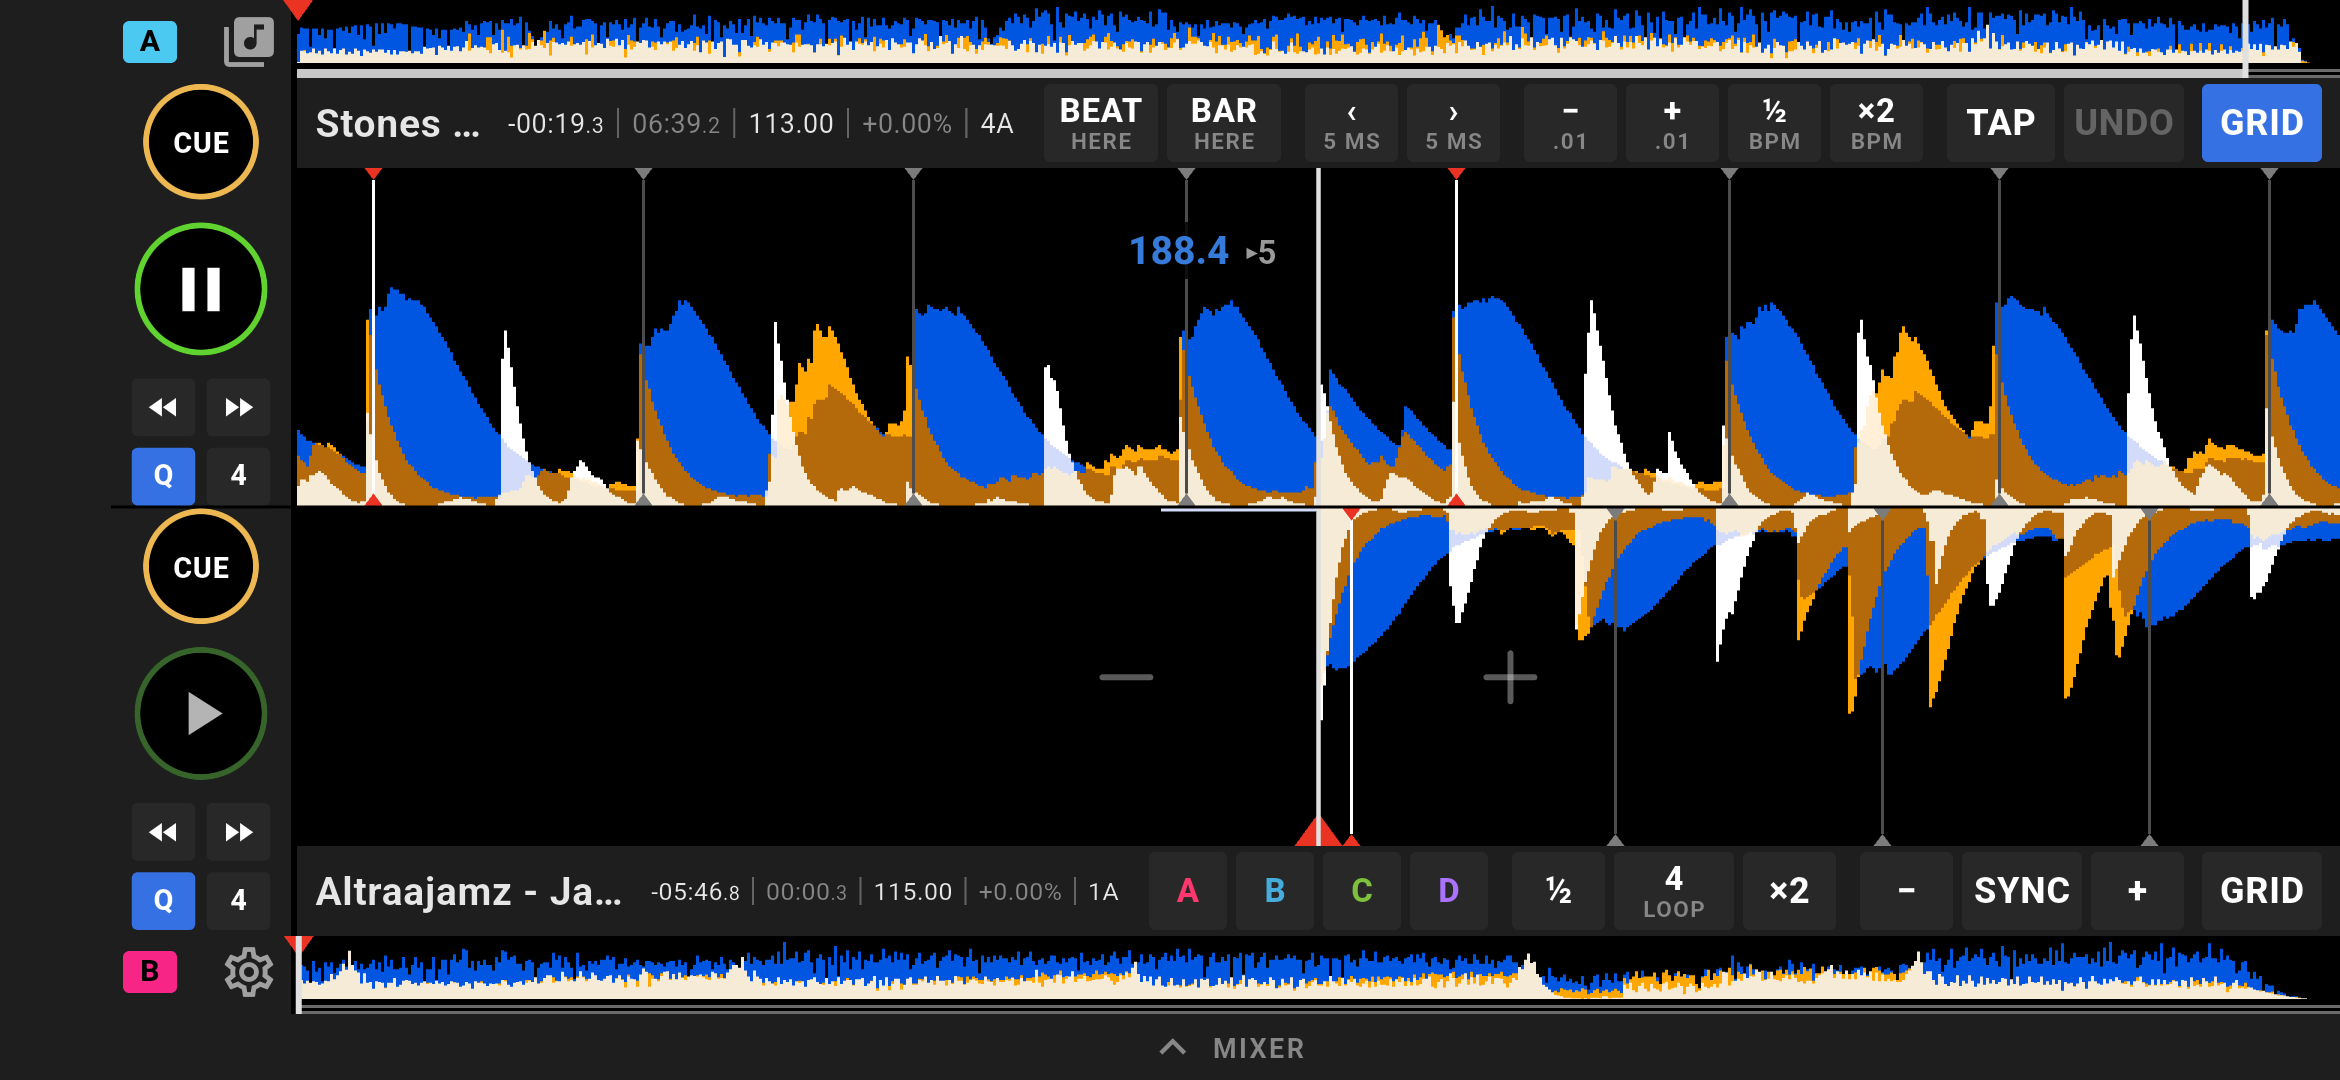
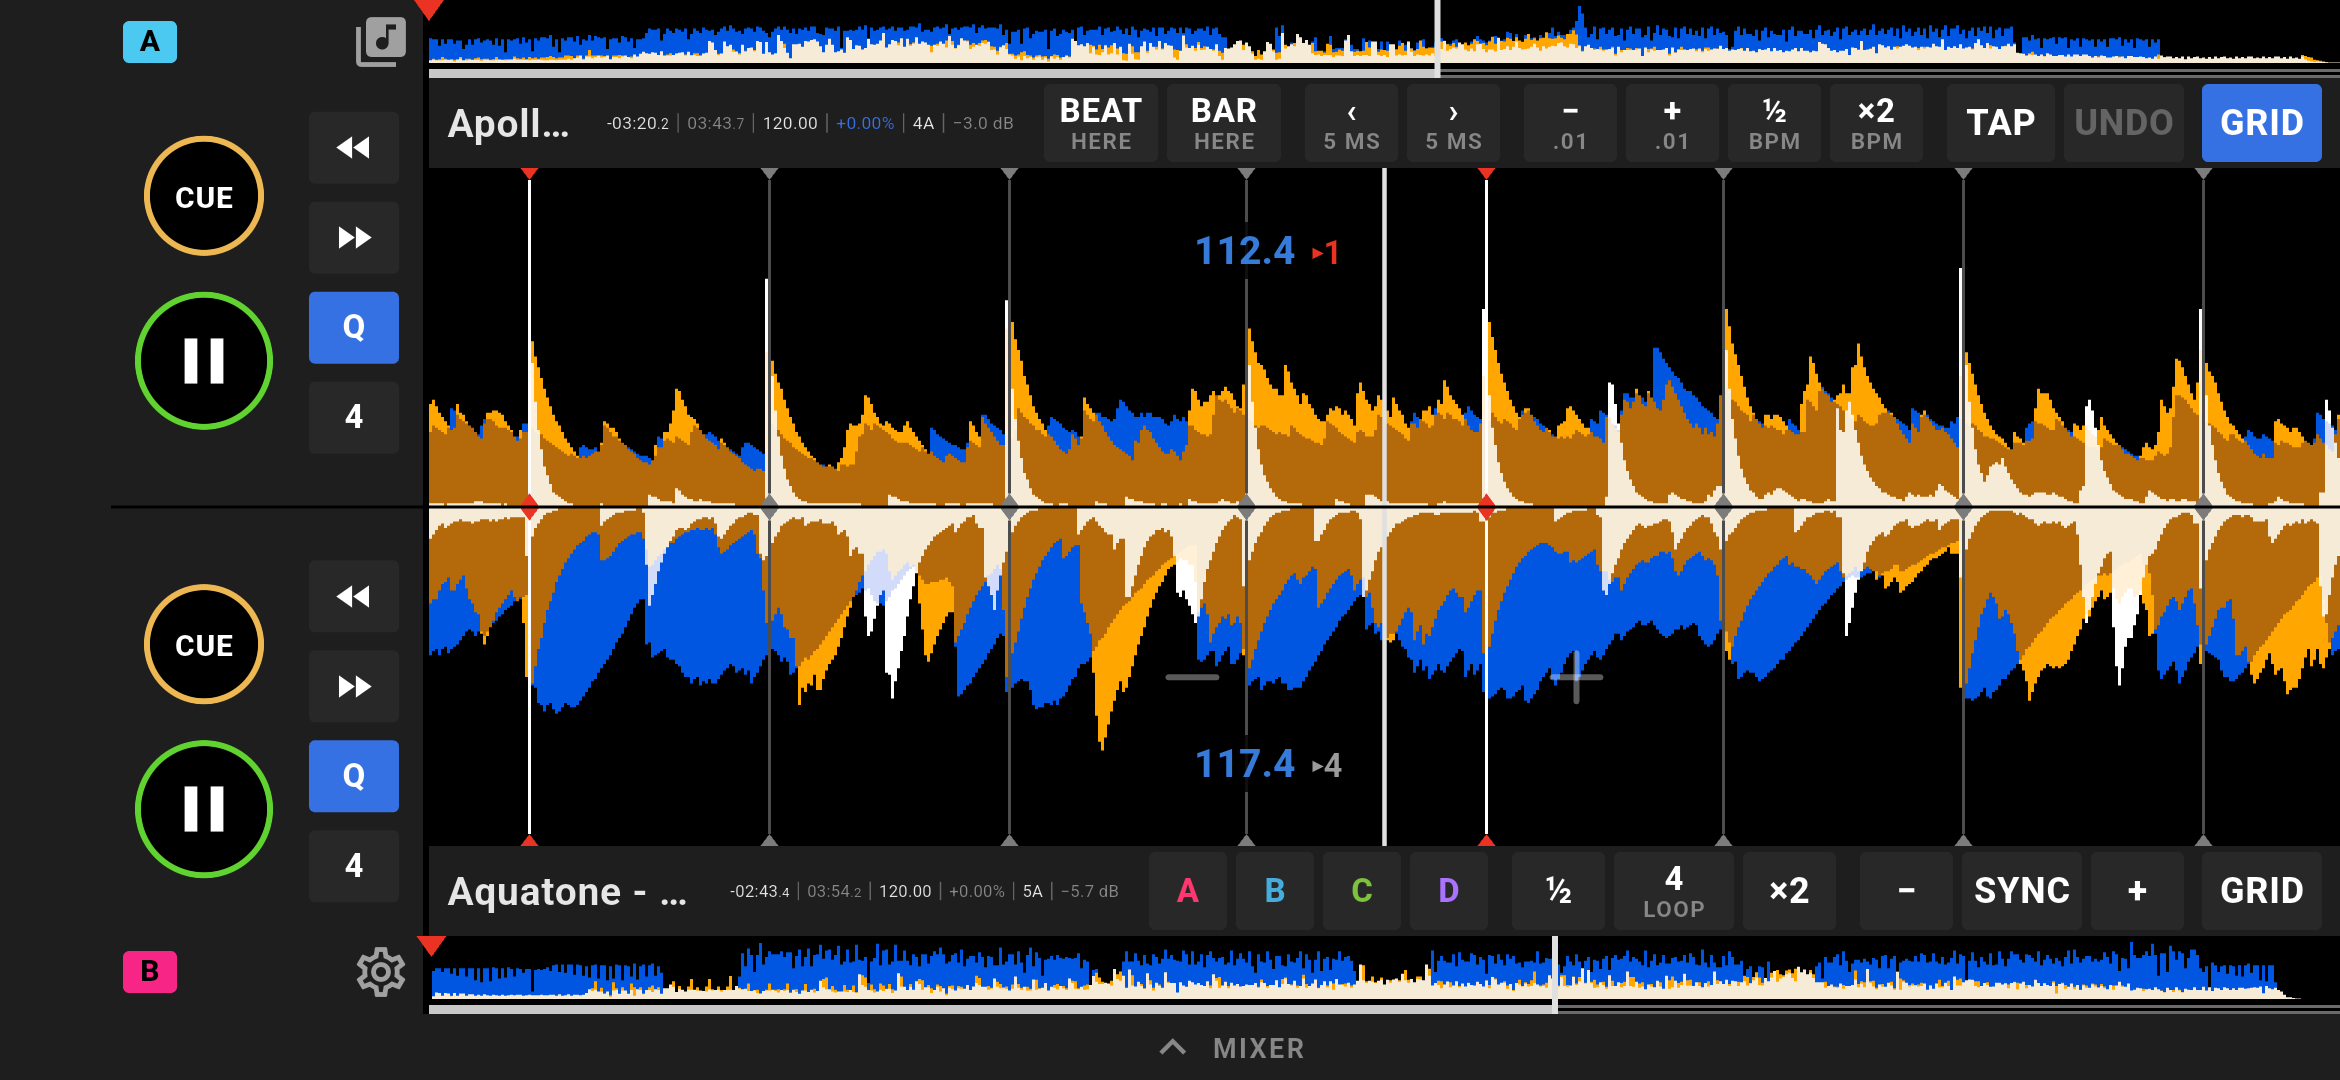
README: auto gain, track details, optional filter, new rail; screenshots
New decks, mixer and GRID screenshots show the two-column rail and the
filter-less mixer; details.png shows the track details dialog.

diff --git a/README.md b/README.md
@@ -29,11 +29,13 @@ USB out to an external mixer such as the Teenage Engineering EP-136 K.O. Sidekic
 > changes listed under [What this fork adds](#what-this-fork-adds). Build from
 > this branch to get them.
 
-![Two synced decks on an external mixer: 3-band waveforms meeting at the centre line, bar / phrase counters, transport rails with CUE, PLAY, beat jump and quantize](screenshots/decks.png)
+![Two synced decks with the internal mixer hidden: 3-band waveforms meeting at the centre line, bar / phrase counters, auto gain beside the key, and two-column transport rails (CUE over PLAY; beat jump, Q and jump size)](screenshots/decks.png)
 
-![The restyled internal mixer](screenshots/mixer.png)
+![The restyled internal mixer: EQ faders and crossfader (the filter fader is optional)](screenshots/mixer.png)
 
 ![GRID mode on deck A (beat here, bar here, 5 ms, BPM, tap, undo) with the internal mixer hidden](screenshots/grid.png)
+
+![Track details, opened by tapping a deck's title](screenshots/details.png)
 
 ![The library: Local, Remote and USB tabs, Camelot keys (compatible ones coloured), the "check grid" warning, and the filter box](screenshots/library.png)
 
@@ -45,9 +47,10 @@ USB out to an external mixer such as the Teenage Engineering EP-136 K.O. Sidekic
 |---|---|
 | External mixer | Fixed silent playback on Samsung/Qualcomm phones; decks take the full screen in external mode |
 | Waveforms | rbxport-style 3-band waveforms, mirrored at a shared centre line; pinch zoom; smooth motion |
-| Deck controls | New control row and transport rail, CUE, hot cues A–D, quantize, beat jump, on-wave nudge |
+| Deck controls | New control row and two-column transport rail, CUE, hot cues A–D, quantize, beat jump, on-wave nudge; tap the title for track details |
 | Navigation | Drag the waveform to scrub; bar / phrase counter |
-| Mixer | Restyled faders with a centre notch and blue offset fill; hide it to give the decks the screen |
+| Mixer | Restyled faders with a centre notch and blue offset fill; filter fader optional; hide it to give the decks the screen |
+| Auto gain | Every track levelled to the same loudness without clipping |
 | Sync | Beat sync: SYNC matches tempo *and* snaps into beat phase |
 | Cues | Cue and hot cues saved per track and restored on load |
 | Beat grid | Whole-track analysis, kick-attack grid fit, checked BPM rounding, drift correction, "check grid" warning, hand-fixed grids protected; grid fix tools (beat here, bar here, BPM edit, tap tempo, undo) |
@@ -94,8 +97,15 @@ Upstream: [issue #13](https://github.com/manueljpy/SideDeck/issues/13),
 - **Control row** between each overview and detail: title and artist, then
   `-MM:SS.t` remaining, `MM:SS.t` elapsed, BPM (0.01), tempo %, key; hot cue pads;
   `½ · LOOP · ×2`; `− · SYNC · +`; `GRID`. Flat rbxport-style buttons that light blue.
-- **Transport rail:** CUE, PLAY, beat-jump ◀◀ ▶▶, **Q** (quantize) and the jump
-  size; small A/B tags; library (deck A) and settings (deck B).
+- **Transport rail,** in two columns: CUE over PLAY, and beside them beat-jump
+  ◀◀ ▶▶, **Q** (quantize) and the jump size; small A/B tags; library (deck A)
+  and settings (deck B). A gap at the centre line keeps deck B's CUE clear of
+  deck A.
+- **Track details:** tap a deck's title for artist, album (rekordbox), length
+  and position, playing and original BPM, tempo and sync, key in musical /
+  Camelot / Open Key, the beat grid and its state, cue and hot cue times,
+  loudness and auto gain, format, size, source and file path. It updates live
+  and the text can be copied.
 - **On-wave nudge:** faint − / + either side of the playhead. Hold while playing
   to bend tempo ±8 %; tap or hold while paused to jog 40 ms.
 - **Bar / phrase counter** beside the playhead, e.g. `33.2 ▸3`: bar 33, beat 2,
@@ -125,6 +135,11 @@ notch, and a blue fill from the centre so any EQ, filter or crossfader move away
 from flat is visible. In external mixer mode the strip is hidden and the decks
 use the whole screen.
 
+The filter fader is off by default, so the strip is EQ and crossfader only and
+gives the decks a little more height. **Settings → On-screen mixer → Filter**
+brings a FILT fader back to each deck (down for low-pass, up for high-pass);
+turning it off resets both filters.
+
 The **▼** above the crossfader hides the internal mixer too, so the decks get
 the whole screen; a slim **▲ MIXER** strip at the bottom brings it back. EQ,
 filter and crossfader keep their settings while hidden, and the choice is
@@ -136,6 +151,16 @@ SYNC matches the synced deck's tempo to the other deck and keeps following it.
 With both decks playing it also shifts the synced deck by under half a beat so
 the beats line up; a synced deck started under a playing deck snaps into phase
 as it starts. It aligns beats, not bars.
+
+### Auto gain
+
+Tracks are levelled to a common loudness, after Mixxx's ReplayGain-based track
+gain, so a mix doesn't jump between quiet and hot masters. While the waveform
+is scanned, SideDeck measures the loud parts (95th percentile of 50 ms RMS
+blocks) and the peak. The deck gain is then trimmed toward -10 dBFS, within
+-12 to +6 dB, and a boost never takes the peak above -0.3 dBFS. The applied
+change shows after the key on the deck (e.g. `-3.0 dB`). On by default; turn
+it off in Settings.
 
 ### Beat grid accuracy
 
@@ -209,6 +234,8 @@ cue colours and comments. It has only been tested on synthetic files so far.
 ### Library and settings
 
 - **Key display** (Settings): Camelot `10A` (default), musical `Bm`, or both.
+- **On-screen mixer** (Settings): show or hide the filter fader.
+- **Auto gain** (Settings): on or off.
 - **Search fix:** the filter could stay active after a search while the box
   looked empty, so other tracks could not be picked. The box now shows the
   active filter and has a clear button.
@@ -221,6 +248,7 @@ cue colours and comments. It has only been tested on synthetic files so far.
 | Pinch / double-tap | Detail | Zoom / reset zoom |
 | − / + | Beside the playhead | Hold to nudge tempo (playing), jog (paused) |
 | Tap / drag | Overview | Seek |
+| Tap the title | Control row | Track details |
 | CUE | Rail | Set / return / preview (CDJ style) |
 | ◀◀ ▶▶ and size box | Rail | Beat jump; tap the box for 1–32 beats |
 | Q | Rail | Quantize on / off |
